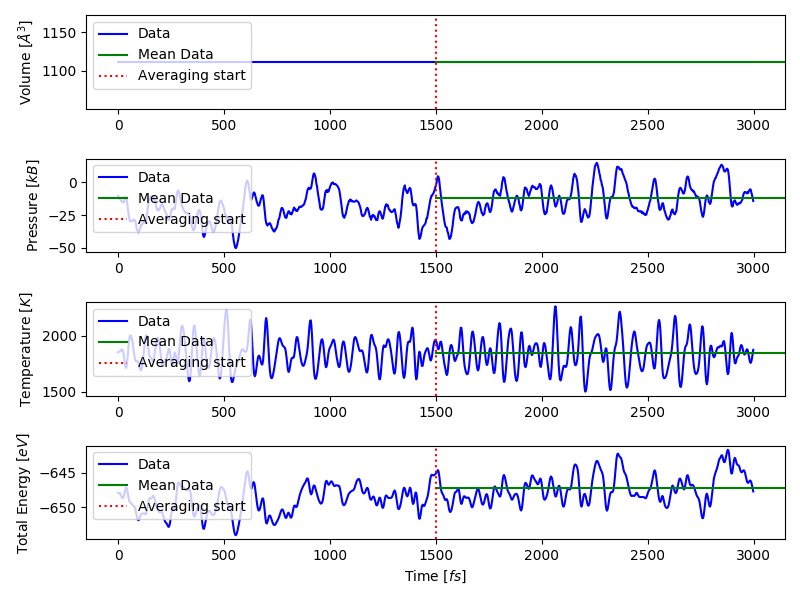
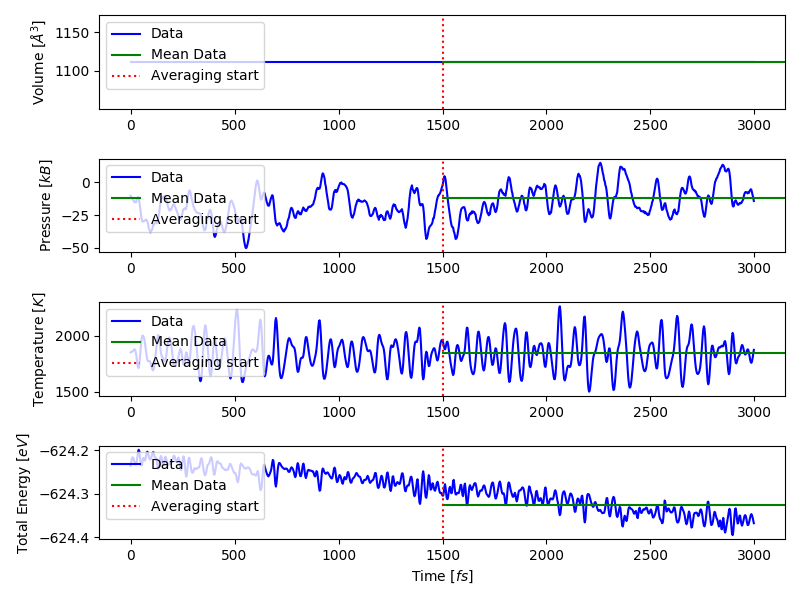
Changed the energy value gathered to be the one from the OSZICAR file.

diff --git a/cooling/gather_data/scripts/parsers.py b/cooling/gather_data/scripts/parsers.py
@@ -152,3 +152,46 @@ def outcar(path):
         total_energy[:] = np.nan
 
     return composition, volumes, pressures, temperatures, total_energy
+
+
+def oszicar(path):
+    '''
+    Parse OSZICAR file.
+
+    inputs:
+        path = The file path.
+
+    outputs:
+        T = The temperature.
+        E = The total free energy.
+        F = The total free energy (no kinetic contribution).
+        E0 = The energy for sigma -> 0.
+        EK = The kinetic energy.
+        SP = The potential energy of the Nose thermostat.
+        SK = The kinetic energy of the Nose thermostat.
+    '''
+
+    T = []
+    E = []
+    F = []
+    E0 = []
+    EK = []
+    SP = []
+    SK = []
+
+    with open(path) as f:
+        for line in f:
+            line = line.strip().split(' ')
+            line = [i for i in line if i != '']
+
+            if 'T=' in line:
+
+                T.append(float(line[2]))
+                E.append(float(line[4]))
+                F.append(float(line[6]))
+                E0.append(float(line[8]))
+                EK.append(float(line[10]))
+                SP.append(float(line[12]))
+                SK.append(float(line[14]))
+
+    return T, E, F, E0, EK, SP, SK

diff --git a/cooling/gather_data/scripts/iterators.py b/cooling/gather_data/scripts/iterators.py
@@ -26,6 +26,7 @@ def analysis(
              poscar,
              outcar,
              xdatcar,
+             oszicar,
              fraction,
              save_plots=False
              ):
@@ -39,6 +40,7 @@ def analysis(
         poscar = The POSCAR file.
         outcar = The OUTCAR file.
         xdatcar = The XDATCAR file.
+        oszicar = The OSZICAR file.
         fraction = The amount of data to average.
         save_plots = Whether to save analysis plots.
 
@@ -69,6 +71,11 @@ def analysis(
     # Count atoms from composition
     atoms = re.split('(\d+)', comp)
     atoms = sum([int(i) for i in atoms if i.isdigit()])
+
+    # OSZICAR parameters
+    T, E, F, E0, EK, SP, SK = parsers.oszicar(join(path, oszicar))
+
+    etot = E  # Use the energy values from OSZICAR instead
 
     # Find minium data length because of runs stopping abruptly
     cut = min(map(len, [vol, press, temp, etot]))

diff --git a/cooling/gather_data/scripts/gather_data.py b/cooling/gather_data/scripts/gather_data.py
@@ -8,6 +8,7 @@ incar = 'INCAR'  # INCAR file
 poscar = 'POSCAR'  # POSCAR file
 outcar = 'OUTCAR'  # OUTCAR file
 xdatcar = 'XDATCAR'  # XDATCAR file
+oszicar = 'OSZICAR'  # OSZICAR file
 vol_dir = '../../run_sets'  # Run directory
 fraction = 0.5  # The fraction of hold data to average
 data_save_dir = '../data'  # The data save folder
@@ -32,6 +33,7 @@ df = iterators.iterate(
                        poscar,
                        outcar,
                        xdatcar,
+                       oszicar,
                        fraction,
                        save_plots,
                        )
